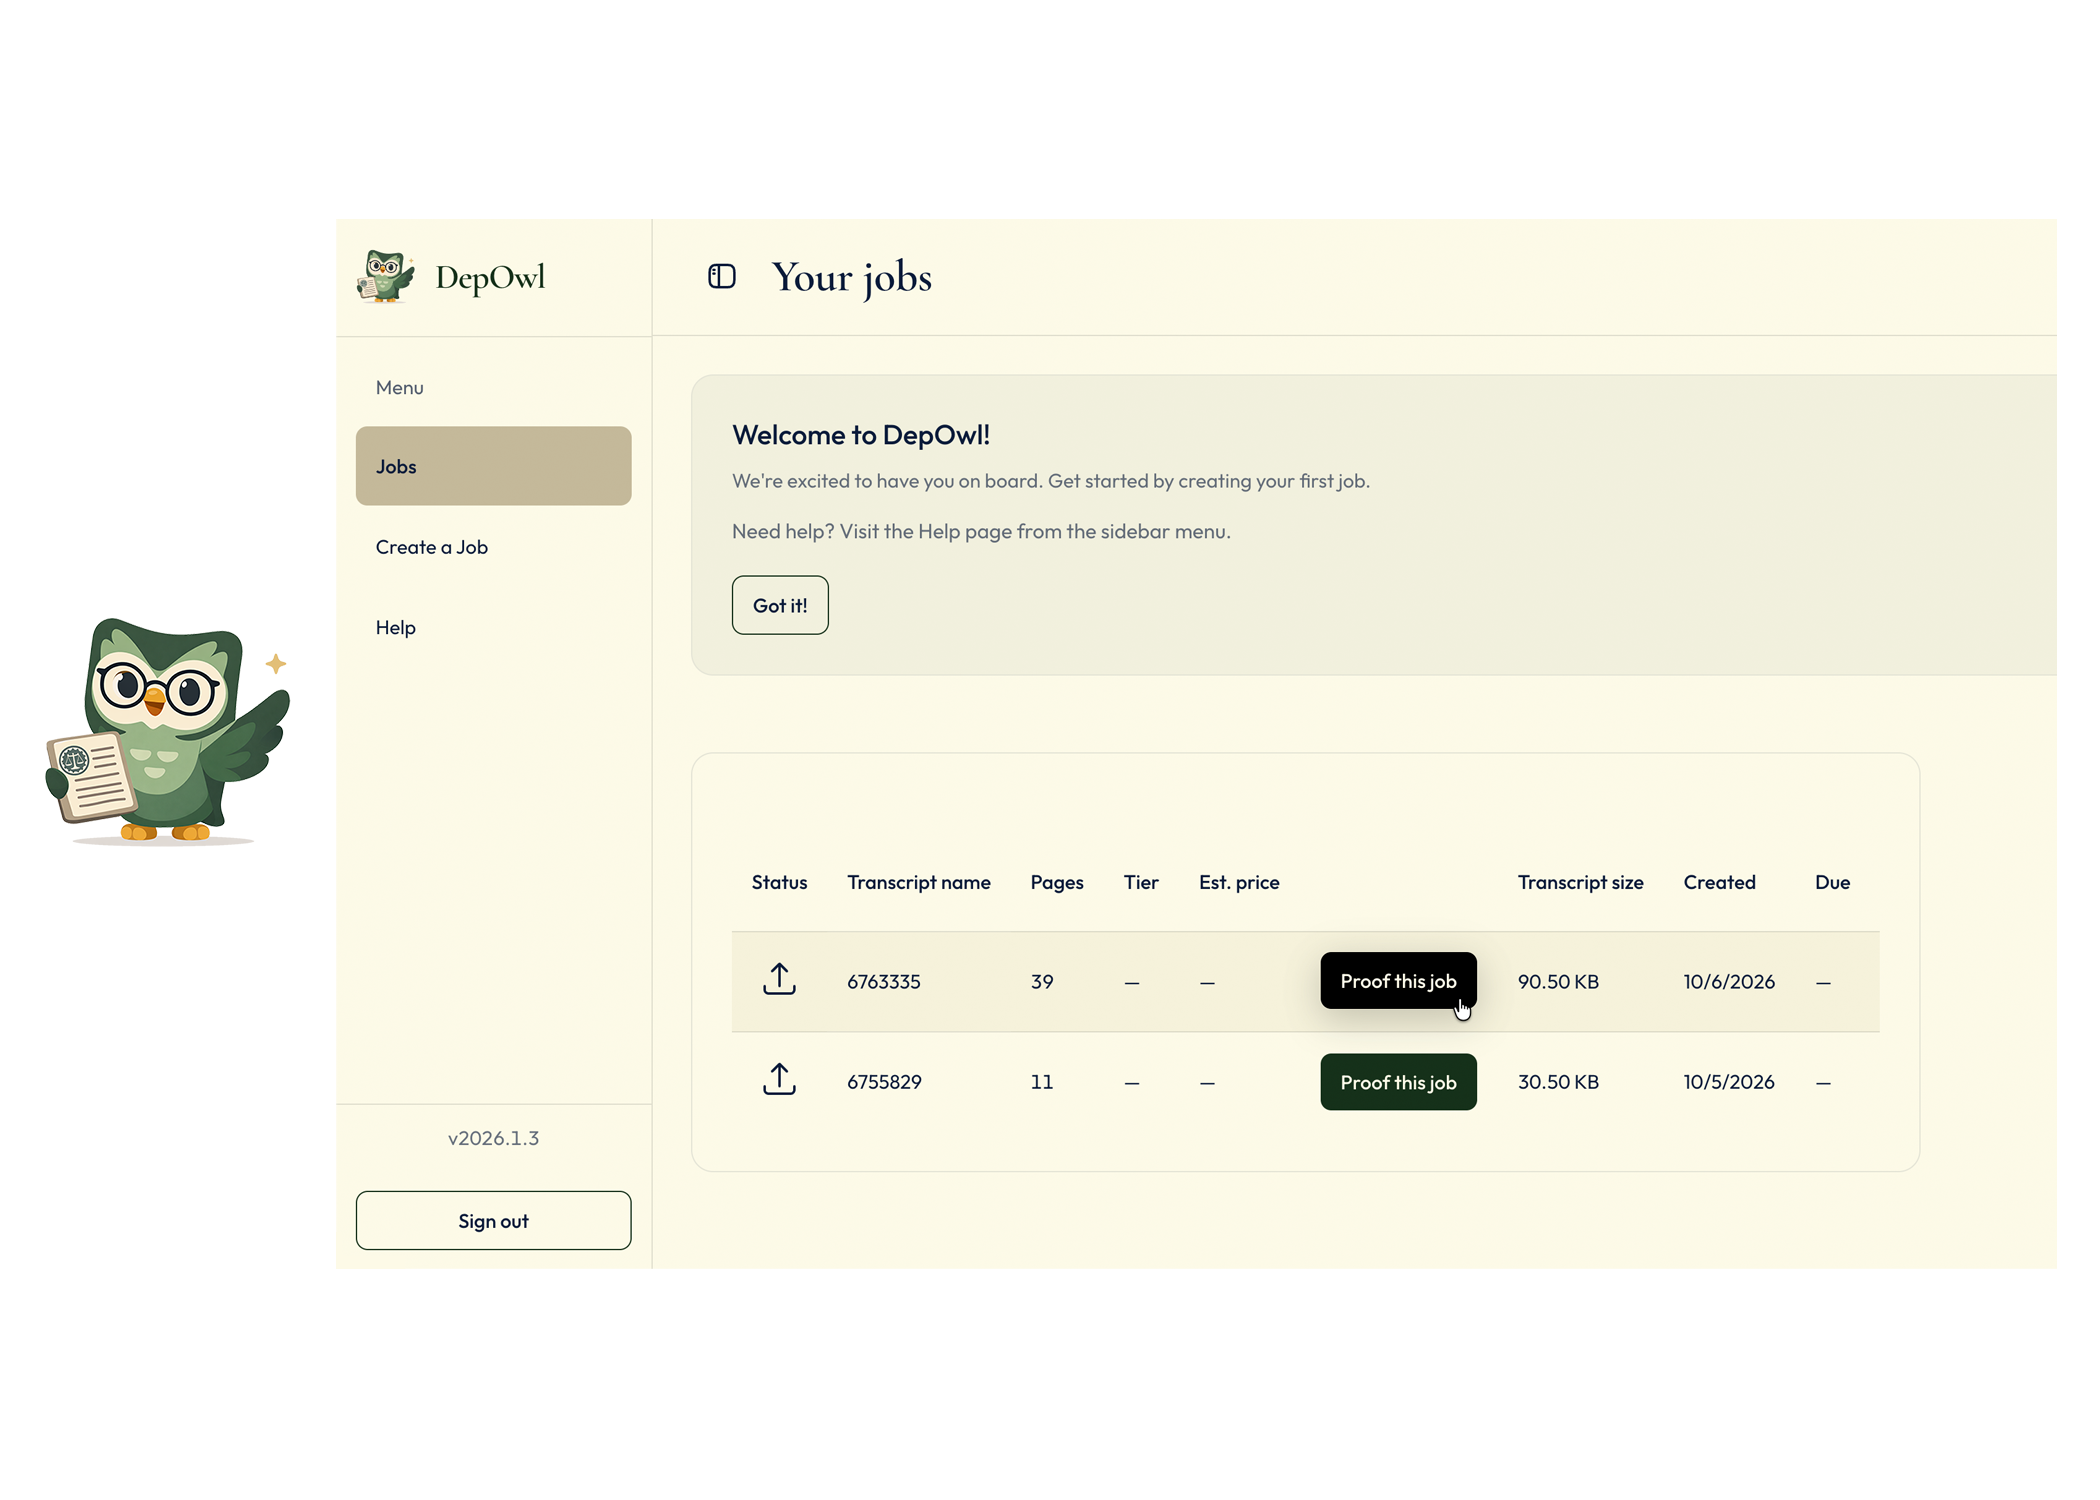
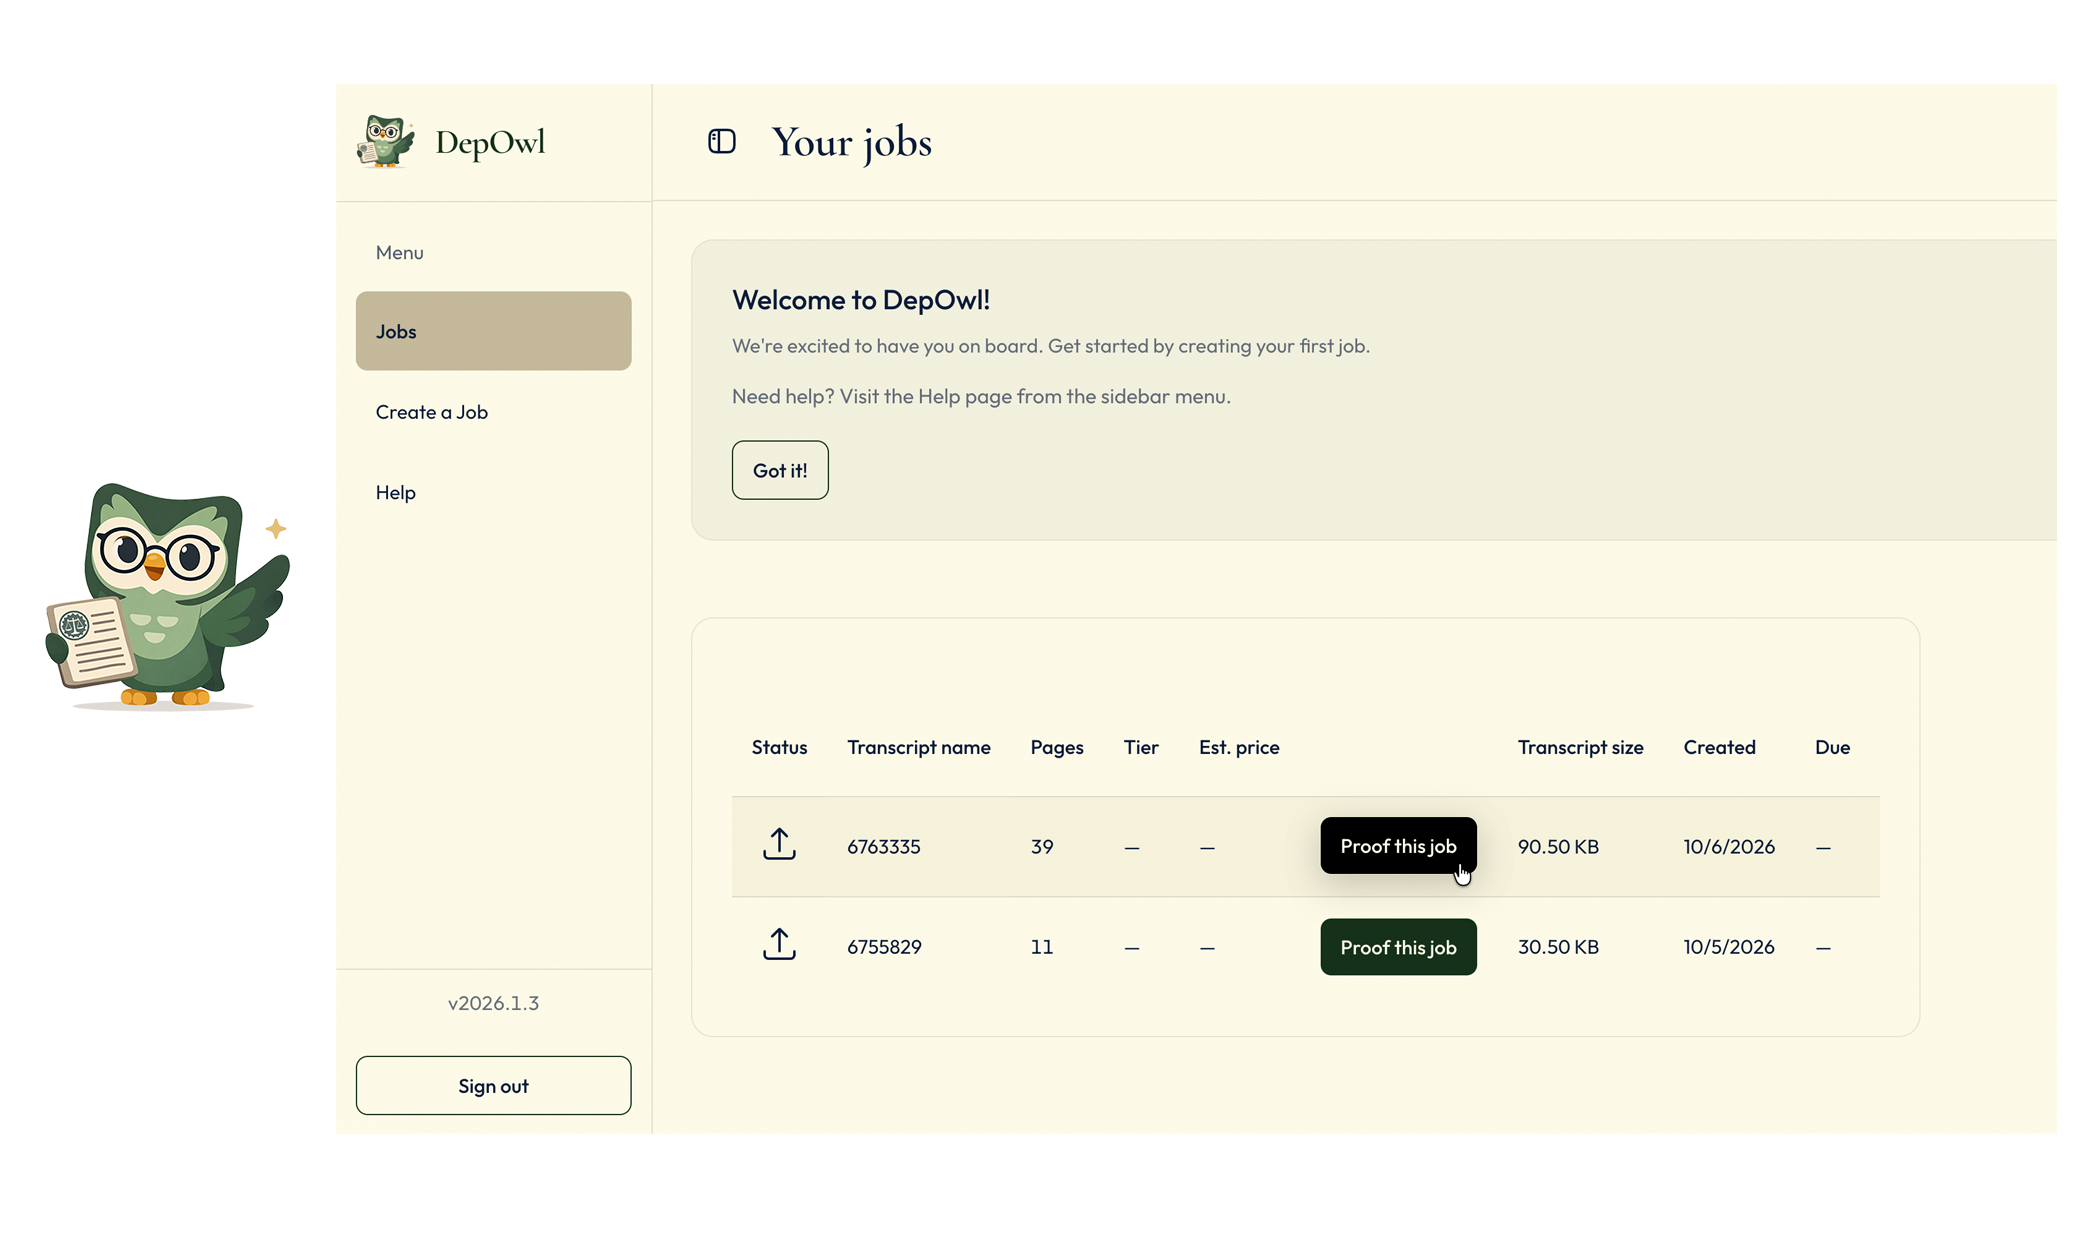
Adding Ai information

diff --git a/depowl.html b/depowl.html
@@ -27,8 +27,8 @@
 					<section id="main" class="wrapper">
 						<div class="inner">
 							<h1 class="major">DepOwl</h1>
-							<span class="image fit"><img src="images/IntroImage02.png" alt="DepOwl Jobs page with a welcome banner and an empty job row" /></span>
-							<p>I built the DepOwl MVP independently in seven months, with AI assistance for architecture. It takes a court reporter from sign-up to the errata sheet they download.</p>
+							<span class="image fit"><img src="images/depowl_intro.png" alt="DepOwl Jobs page with a welcome banner and an empty job row" /></span>
+							<p>I built the DepOwl MVP independently in seven months, using AI-augmented development workflows, Cursor, GitHub Copilot, agent-directed implementation, context engineering, AI code review and refinement, test generation, debugging, architecture and design validation, secure production delivery. It takes a court reporter from sign-up through transcript upload, tiered payment, and status tracking to the errata sheet they download.</p>
 
 							<div class="table-wrapper">
 								<table>
@@ -36,7 +36,7 @@
 										<tr><th>Product</th><td><a href="https://app.depowl.legal/" target="_blank" rel="noopener noreferrer">DepOwl Legal</a> (web app)</td></tr>
 										<tr><th>My role</th><td>Staff Software Engineer and independent product developer</td></tr>
 										<tr><th>Timeline</th><td>Seven months to an MVP</td></tr>
-										<tr><th>Team</th><td>Two-person product; I wrote all of the code</td></tr>
+										<tr><th>Team</th><td>Two-person product; I wrote most of the code</td></tr>
 										<tr><th>Primary users</th><td>Court reporters and their staff</td></tr>
 									</tbody>
 								</table>
@@ -49,7 +49,15 @@
 							<ul>
 								<li><strong>Security.</strong> The data is legal material, so the security bar is high.</li>
 								<li><strong>Team size.</strong> One coder built the product.</li>
-								<li><strong>Trust in email.</strong> Email has to build trust, because the reporter learns the errata sheet is ready from it.</li>
+								<li><strong>Trust in email.</strong> Email is the reporter's first signal that the work is done right, so it has to earn their trust.</li>
+							</ul>
+
+							<h2>Working with AI</h2>
+							<p>I used AI tools throughout the build, and I kept the decisions. I set the architecture, directed the AI on each change, and reviewed what it produced before it shipped.</p>
+							<ul>
+								<li><strong>Architecture first.</strong> I decided the system design, data model, and security boundaries before asking AI to build within them.</li>
+								<li><strong>Directed changes.</strong> I scoped each change, reviewed the diff, and checked the result against the flow the reporter sees.</li>
+								<li><strong>Targeted use.</strong> I used GitHub Copilot for code review and refinement, catching issues in flows like sign-up and password recovery, and leaned on agent-directed prototyping and debugging to work through tricky logic before I committed to it.</li>
 							</ul>
 
 							<h2>Product context</h2>
